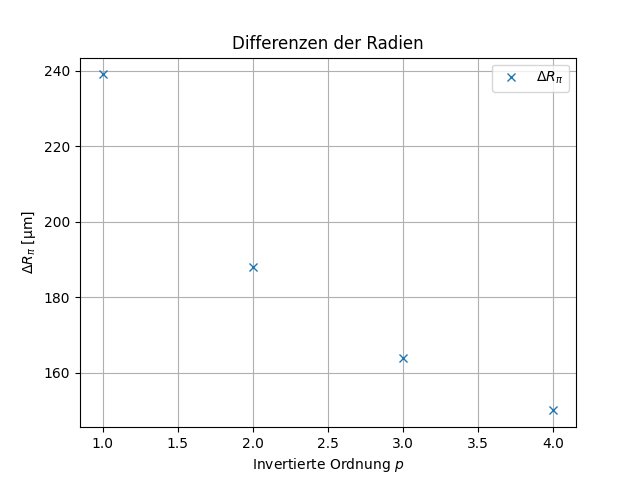
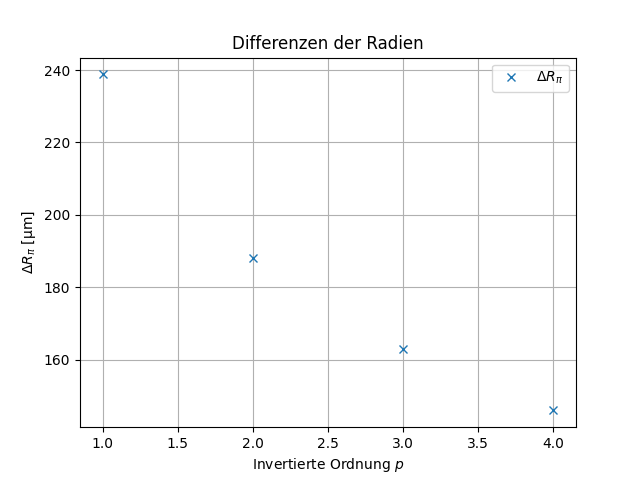
finished_ZEE

diff --git a/ZEE-Zeemanneffekt/Aufgabe7.py b/ZEE-Zeemanneffekt/Aufgabe7.py
@@ -1,7 +1,7 @@
 import matplotlib.pyplot as plt
 import numpy as np
 import matplotlib
-matplotlib.use("TkAgg")  # Use TkAgg backend for plotting
+# matplotlib.use("TkAgg")  # Use TkAgg backend for plotting
 
 
 file = "Daten/Radien.dat"
@@ -16,9 +16,16 @@ sigmaplus = data[:, 3].flatten()  # m
 dR_sq_pi = np.array([pi[i+1]**2 - pi[i]**2 for i in range(len(pi)-1)])
 dR_pi = np.array([pi[i+1] - pi[i] for i in range(len(pi)-1)])
 
-plt.plot(p[:-1], dR_sq_pi*1e12, 'x', label=r'$\Delta R^2_\pi$')
+dR_sq_pi_sigmaminus = np.array([sigmaminus[i]**2 - pi[i]**2 for i in range(len(sigmaminus))])
+dR_pi_sigmaminus = np.array([sigmaminus[i] - pi[i] for i in range(len(sigmaminus))])
+
+dR_sq_pi_sigmaplus = np.array([sigmaplus[i]**2 - pi[i]**2 for i in range(len(sigmaplus))])
+dR_pi_sigmaplus = np.array([sigmaplus[i] - pi[i] for i in range(len(sigmaplus))])
+
+""" 
+plt.plot(p[:-1], dR_sq_pi*1e6, 'x', label=r'$\Delta R^2_\pi$')
 plt.xlabel('Invertierte Ordnung $p$')
-plt.ylabel(r'$\Delta R^2_\pi$ [μm²]')
+plt.ylabel(r'$\Delta R^2_\pi$ [mm²]')
 plt.title('Differenzen der Radien im Quadrat')
 plt.legend()
 plt.grid()
@@ -32,3 +39,72 @@ plt.title('Differenzen der Radien')
 plt.legend()
 plt.grid()
 plt.savefig("Plots/differenzen_radien.png")
+
+plt.cla()
+plt.plot(p, dR_sq_pi_sigmaminus*1e6, "x", label=r"$\delta^2 R_{\sigma^-,\pi}$")
+plt.xlabel('Invertierte Ordnung $p$')
+plt.ylabel(r'$\Delta R^2_{\sigma^-,\pi}$ [mm²]')
+plt.title('Differenzen der Radien im Quadrat')
+plt.legend()
+plt.grid()
+plt.savefig("Plots/differenzen_radien_quadrat,sigmaminus_pi.png")
+print(fr"\delta^2 R_{{\sigma^-,\pi}} = {np.mean(dR_sq_pi_sigmaminus)} \pm {np.std(dR_sq_pi_sigmaminus)}")
+
+plt.cla()
+plt.plot(p, dR_pi_sigmaminus*1e6, "x", label=r"$\delta R_{\sigma^-,\pi}$")
+plt.xlabel('Invertierte Ordnung $p$')
+plt.ylabel(r'$\Delta R_{\sigma^-,\pi}$ [μm]')
+plt.title('Differenzen der Radien')
+plt.legend()
+plt.grid()
+plt.savefig("Plots/differenzen_radien,sigmaminus_pi.png")
+print(fr"\\delta R_{{\\sigma^-,\\pi}} = {np.mean(dR_pi_sigmaminus)} \\pm {np.std(dR_pi_sigmaminus)}")
+
+plt.cla()
+plt.plot(p, dR_pi_sigmaplus*1e6, "x", label=r"$\delta R_{\sigma^+,\pi}$")
+plt.xlabel('Invertierte Ordnung $p$')
+plt.ylabel(r'$\Delta R_{\sigma^+,\pi}$ [μm]')
+plt.title('Differenzen der Radien')
+plt.legend()
+plt.grid()
+plt.savefig("Plots/differenzen_radien,sigmaplus_pi.png")
+print(fr"\\delta R_{{\\sigma^+,\\pi}} = {np.mean(dR_pi_sigmaplus)} \\pm {np.std(dR_pi_sigmaplus)}")
+
+plt.cla()
+plt.plot(p, dR_sq_pi_sigmaplus*1e6, "x", label=r"$\delta^2 R_{\sigma^+,\pi}$")
+plt.xlabel('Invertierte Ordnung $p$')
+plt.ylabel(r'$\Delta R^2_{\sigma^+,\pi}$ [mm²]')
+plt.title('Differenzen der Radien im Quadrat')
+plt.legend()
+plt.grid()
+plt.savefig("Plots/differenzen_radien_quadrat,sigmaplus_pi.png")
+print(fr"\delta^2 R_{{\sigma^-,\pi}} = {np.mean(dR_sq_pi_sigmaplus)} \pm {np.std(dR_sq_pi_sigmaplus)}")
+ """
+
+
+freier_spektralbereich = 33.496e9
+delta_nu_splus = freier_spektralbereich * np.mean(dR_sq_pi_sigmaplus)/np.mean(dR_sq_pi)
+err_delta_nu_splus = freier_spektralbereich * np.sqrt((np.std(dR_sq_pi_sigmaplus)/np.mean(dR_sq_pi))**2 + (np.mean(dR_sq_pi_sigmaplus)/np.mean(dR_sq_pi)**2 * np.std(dR_sq_pi))**2)
+print(fr"delta_nu_minus = {delta_nu_splus:.5e} ± {err_delta_nu_splus:.5e} Hz")
+
+delta_nu_sminus = freier_spektralbereich * np.mean(dR_sq_pi_sigmaminus)/np.mean(dR_sq_pi)
+err_delta_nu_sminus = freier_spektralbereich * np.sqrt((np.std(dR_sq_pi_sigmaminus)/np.mean(dR_sq_pi))**2 + (np.mean(dR_sq_pi_sigmaminus)/np.mean(dR_sq_pi)**2 * np.std(dR_sq_pi))**2)
+print(fr"delta_nu_plus = {delta_nu_sminus:.5e} ± {err_delta_nu_sminus:.5e} Hz")
+
+
+lambda_0 = 643.8e-9  # m
+n = 1.4560
+d = 3e-3
+delta_lambda = lambda_0**2 / (2*n*d)
+print(fr"delta_lambda = {delta_lambda:.5e} m")
+
+
+print("Im Wellenlängenbereich:")
+freier_spektralbereich = delta_lambda
+delta_nu_splus = freier_spektralbereich * np.mean(dR_sq_pi_sigmaplus)/np.mean(dR_sq_pi)
+err_delta_nu_splus = freier_spektralbereich * np.sqrt((np.std(dR_sq_pi_sigmaplus)/np.mean(dR_sq_pi))**2 + (np.mean(dR_sq_pi_sigmaplus)/np.mean(dR_sq_pi)**2 * np.std(dR_sq_pi))**2)
+print(fr"delta_nu_minus = {delta_nu_splus:.5e} ± {err_delta_nu_splus:.5e} Hz")
+
+delta_nu_sminus = freier_spektralbereich * np.mean(dR_sq_pi_sigmaminus)/np.mean(dR_sq_pi)
+err_delta_nu_sminus = freier_spektralbereich * np.sqrt((np.std(dR_sq_pi_sigmaminus)/np.mean(dR_sq_pi))**2 + (np.mean(dR_sq_pi_sigmaminus)/np.mean(dR_sq_pi)**2 * np.std(dR_sq_pi))**2)
+print(fr"delta_nu_plus = {delta_nu_sminus:.5e} ± {err_delta_nu_sminus:.5e} Hz")

diff --git a/ZEE-Zeemanneffekt/Aufgabe8.py b/ZEE-Zeemanneffekt/Aufgabe8.py
@@ -1,0 +1,31 @@
+import numpy as np
+
+Is = [3.94, 3.87, 3.82, 3.99, 3.81, 3.89, 3.28, 3.65, 3.77, 3.51, 3.85, 3.83, 3.89, 3.93, 3.84]
+
+def B(I):
+    B = -0.2924*I**3 + 3.5679*I**2 + 62.3677*I + 94.2098
+    return B/1000
+
+Bs = [B(I) for I in Is]
+
+B_mean = np.mean(Bs)
+B_std = np.std(Bs)
+print(f"B = {B_mean*1000:.1f} ± {B_std*1000:.1f} mT")
+
+mu_B = 9.274e-24  # Bohr magneton in J/T
+h = 6.626e-34  # Planck's constant in J·s
+DeltaNu = 3.3595e10 # Hz
+
+g = DeltaNu * h / (4*mu_B*B_mean)  # g-factor calculation
+g_err = DeltaNu * h / (4*mu_B*B_mean**2) * B_std  # Error in g-factor
+print(f"g = {g:.4f} ± {g_err:.4f}")
+
+
+
+
+print(r"\begin{tabular}{cc}")
+print(r"$I$ / A & $B$ / T \\")
+print(r"\hline")
+for I_val, B_val in zip(Is, Bs):
+    print(f"{I_val:.2f} & {B_val:.4f} \\\\")
+print(r"\end{tabular}")
